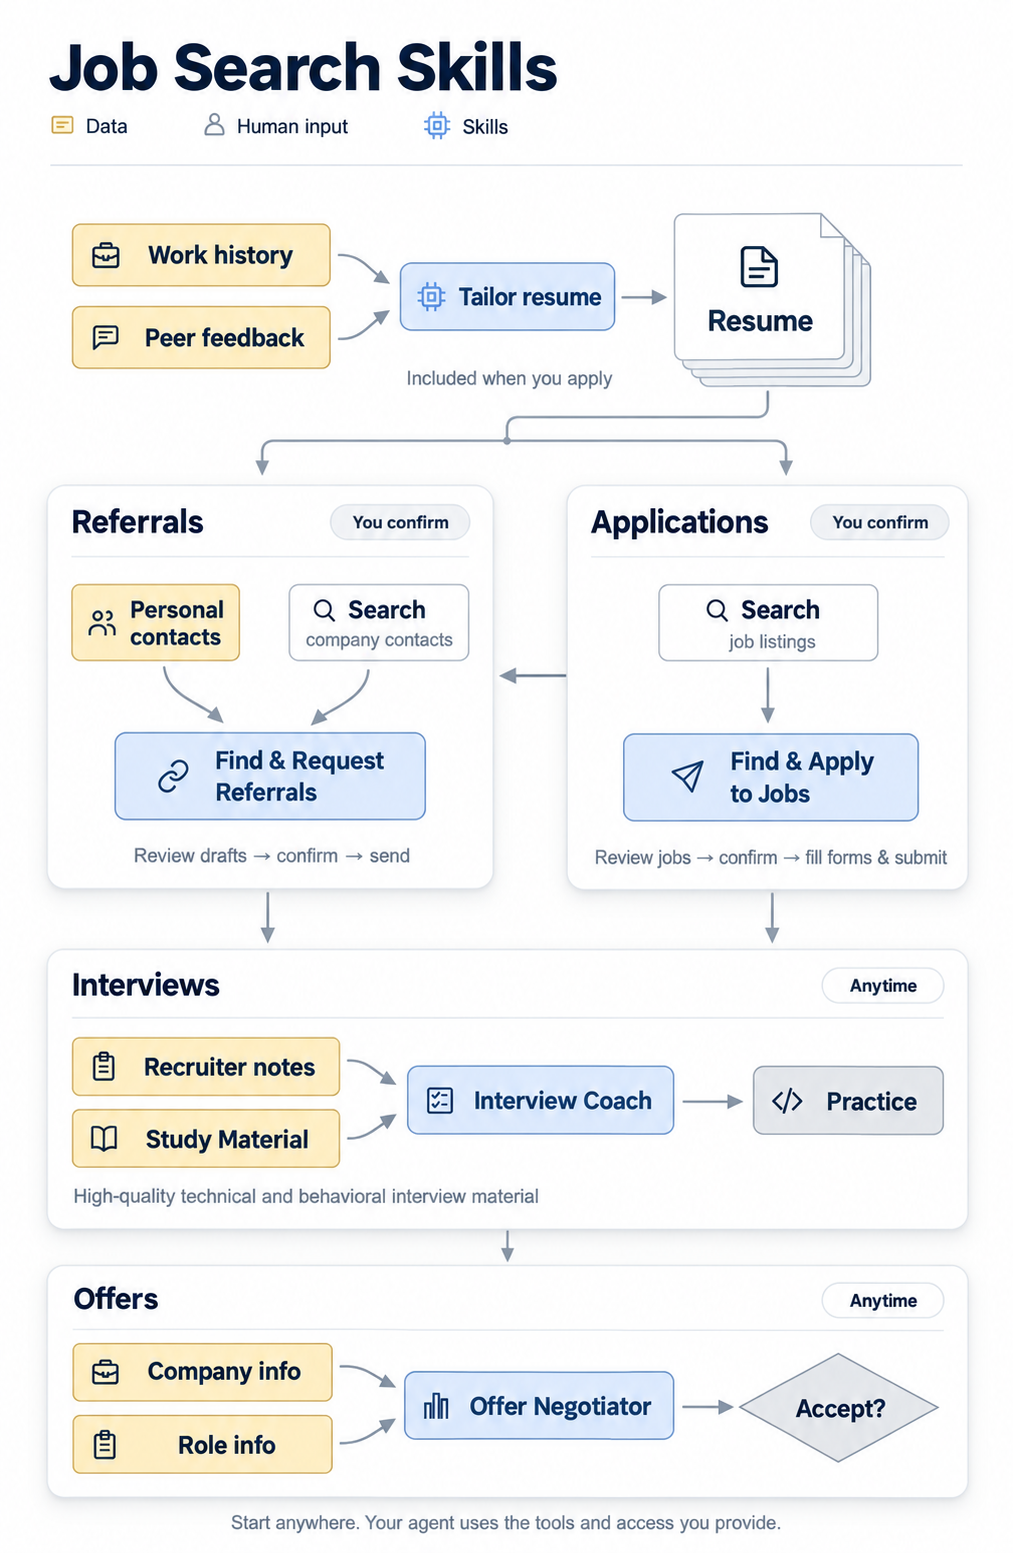
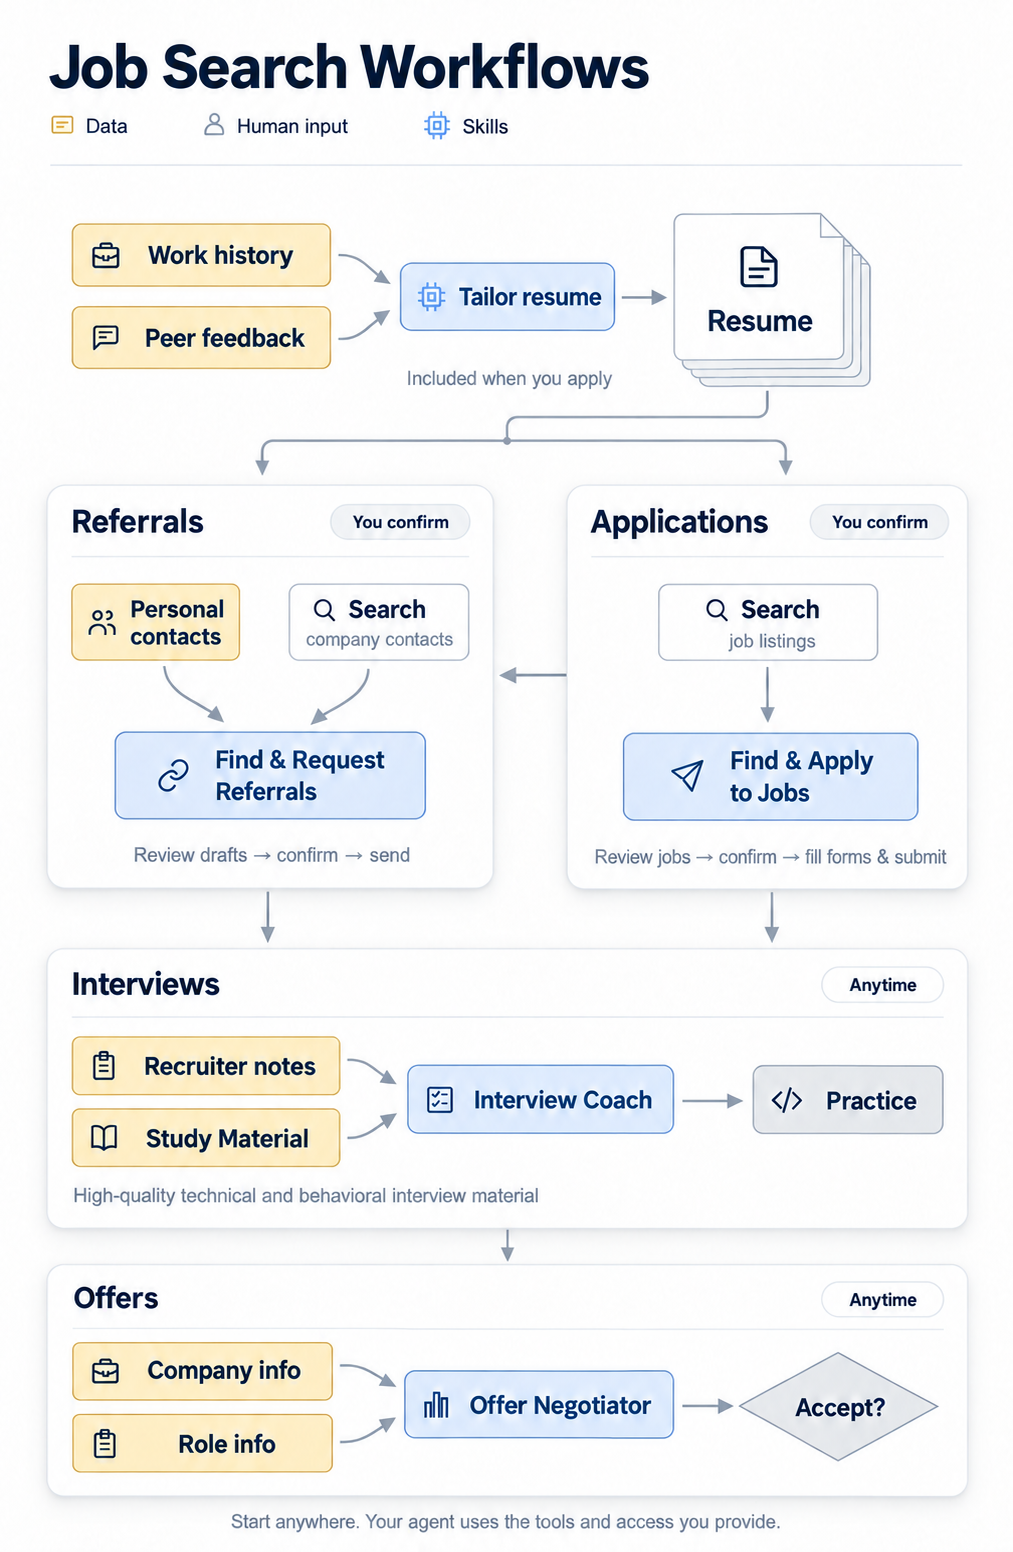
Rename workflow heading and remove redundant diagram title

diff --git a/scripts/check_package.py b/scripts/check_package.py
@@ -23,7 +23,7 @@ TEXT_SUFFIXES = {".md", ".py", ".json", ".yaml", ".yml", ".template", ".txt"}
 # Binary contents cannot pass the text privacy screen. Approve each asset only
 # after visual/privacy review; any replacement requires a new reviewed digest.
 APPROVED_BINARY_ASSETS = {
[2 lines of base64/hex data omitted]
 }
 SENSITIVE_PATTERNS = {
     "personal machine path": re.compile(r"/(?:Users|home)/[A-Za-z0-9_.-]+/"),

diff --git a/README.md b/README.md
@@ -1,4 +1,4 @@
-# Job Search Skills
+# Job Search Workflows
 
 Find and apply to jobs, request referrals, practice interviews and negotiate offers with your AI agent.
 
@@ -21,9 +21,7 @@ Already have a job-search folder? Ask the agent to use it. To try the workflow f
 
 > Show me how this works with a fictional candidate.
 
-## The workflow
-
-![Job Search Skills workflow: work history and peer feedback support resume tailoring. Find and Apply to Jobs and Find and Request Referrals act after your confirmation. Interview Coach supports practice, and Offer Negotiator supports your decision. Both coaches are available anytime.](docs/assets/job-search-workflow.png)
+![Job Search Workflows: work history and peer feedback support resume tailoring. Find and Apply to Jobs and Find and Request Referrals act after your confirmation. Interview Coach supports practice, and Offer Negotiator supports your decision. Both coaches are available anytime.](docs/assets/job-search-workflow.png)
 
 ## Find and Apply to Jobs
 
